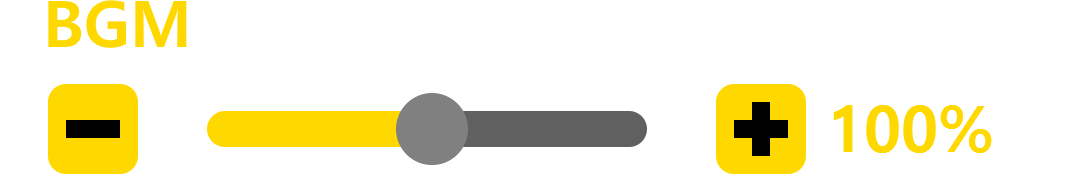
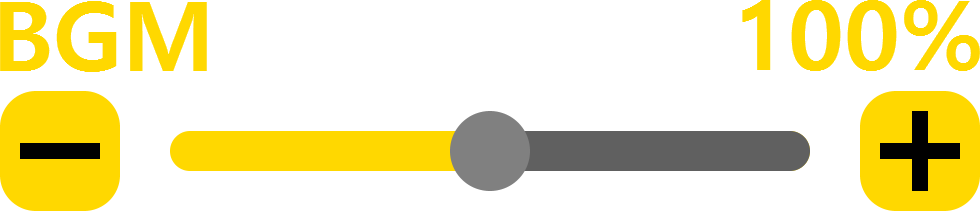
슬라이더 크기 조정

diff --git a/src/Assets/ZeroToThree/Scripts/UI/UIVolumeControl.cs b/src/Assets/ZeroToThree/Scripts/UI/UIVolumeControl.cs
@@ -14,7 +14,8 @@ namespace Assets.ZeroToThree.Scripts.UI
         public UIImage Minus;
         public UIImage Plus;
         public UISlider Slider;
-        public UILabel Text;
+        public UILabel Name;
+        public UILabel Value;
         public float ClickAmount;
         public float PushModeEnterDuration;
 
@@ -108,7 +109,7 @@ namespace Assets.ZeroToThree.Scripts.UI
 
         private void UpdateText()
         {
-            this.Text.Text.text = (this.Slider.Value * 100.0F).ToString("0") + "%";
+            this.Value.Text.text = (this.Slider.Value * 100.0F).ToString("0") + "%";
         }
 
     }
